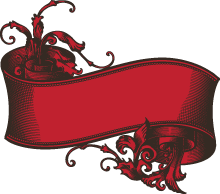
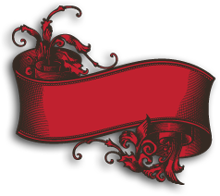
theming tabs and updating some images

diff --git a/css/style.css b/css/style.css
@@ -74,19 +74,21 @@ body {
 #navigation .primary-links a:active {
 	top:1px;
 	left:1px;
-	background: #7f151e; /* Old browsers */
-	/* IE9 SVG, needs conditional override of 'filter' to 'none' */
+	/*
+	background: #7f151e;
+	
[1 lines of base64/hex data omitted]
-	background: -moz-linear-gradient(top,  #7f151e 16%, #c0202f 100%); /* FF3.6+ */
-	background: -webkit-gradient(linear, left top, left bottom, color-stop(16%,#7f151e), color-stop(100%,#c0202f)); /* Chrome,Safari4+ */
-	background: -webkit-linear-gradient(top,  #7f151e 16%,#c0202f 100%); /* Chrome10+,Safari5.1+ */
-	background: -o-linear-gradient(top,  #7f151e 16%,#c0202f 100%); /* Opera 11.10+ */
-	background: -ms-linear-gradient(top,  #7f151e 16%,#c0202f 100%); /* IE10+ */
-	background: linear-gradient(top,  #7f151e 16%,#c0202f 100%); /* W3C */
-	filter: progid:DXImageTransform.Microsoft.gradient( startColorstr='#7f151e', endColorstr='#c0202f',GradientType=0 ); /* IE6-8 */
+	background: -moz-linear-gradient(top,  #7f151e 16%, #c0202f 100%);
+	background: -webkit-gradient(linear, left top, left bottom, color-stop(16%,#7f151e), color-stop(100%,#c0202f)); 
+	background: -webkit-linear-gradient(top,  #7f151e 16%,#c0202f 100%); 
+	background: -o-linear-gradient(top,  #7f151e 16%,#c0202f 100%); 
+	background: -ms-linear-gradient(top,  #7f151e 16%,#c0202f 100%);
+	background: linear-gradient(top,  #7f151e 16%,#c0202f 100%);
+	filter: progid:DXImageTransform.Microsoft.gradient( startColorstr='#7f151e', endColorstr='#c0202f',GradientType=0 );
 	-webkit-box-shadow:  inset 0px 0px 20px 0px rgba(0, 0, 0, 0.5), 0px 0px 20px 0px rgba(0, 0, 0, 0.5);
 	-moz-box-shadow: inset 0px 0px 20px 0px rgba(0, 0, 0, 0.5), 0px 0px 20px 0px rgba(0, 0, 0, 0.5);
 	box-shadow: inset 0px 0px 20px 0px rgba(0, 0, 0, 0.5), 0px 0px 20px 0px rgba(0, 0, 0, 0.5);
+	*/
 }
 
 #block-menu-secondary-links li {
@@ -111,13 +113,13 @@ body {
 	margin:0px;
 	height:74px;
 	width:182px;
-	padding-top:78px !important;
+	padding-top:74px !important;
 	padding-left:38px !important;
 	padding-bottom:50px;
 }
 #block-menu-secondary-links .sponsor {
 	position:relative;
-	top:-146px;
+	top:-148px;
 	background-image:url('../images/ornate_banner_red2.png');
 	display:inline-block;
 	height:194px;
@@ -128,7 +130,7 @@ body {
 	margin:0px;
 	height:111px;
 	width:188px;
-	padding-top:83px !important;
+	padding-top:81px !important;
 	padding-left:32px !important;	
 }
 #block-menu-secondary-links .map,
@@ -300,4 +302,33 @@ filter: progid:DXImageTransform.Microsoft.gradient( startColorstr='#c0202f', end
 
 .node-body {
 	margin:20px 20px 20px 10px;
+}
+
+/* Tabs */
+ul.tabs li {
+
+}
+ul.tabs li a:link {
+	background-image:url('../images/tab.png');
+  background-size:100% 100%;
+  background-position:center bottom;
+  background-repeat: no-repeat;
+  display:inline-block;
+	background-color:transparent;
+	padding:10px 40px 5px 40px;
+	margin-top:5px;
+}
+ul.tabs li a.active {
+	padding:10px 40px 10px 40px;
+	margin-top:0px;
+}
+/* Tabs */
+
+#tabs {
+  margin: 0px 0px 0px 20px;
+  line-height:0;
+}
+
+ul.tabs li {
+  float: left;
 }

diff --git a/css/navigation.css b/css/navigation.css
@@ -27,7 +27,6 @@
 ul.links {
   padding: 0;
   margin: 0;
-  line-height: 2;
   border: none;
 }
 
@@ -60,21 +59,6 @@ ul.links.inline li a {
 ul.links a.active,
 ul.links li.active a {
   border: none;
-}
-
-/* Tabs */
-
-#tabs {
-  margin-bottom: 0px;
-}
-
-ul.tabs li {
-  float: left;
-}
-
-ul.tabs li a:link,
-ul.tabs li a:visited {
-  padding: 2px 5px;
 }
 
 ul.tabs.secondary {

diff --git a/css/color.css b/css/color.css
@@ -72,18 +72,6 @@ fieldset {
   border: 1px solid #eee;
 }
 
-/* Tabs */
-
-ul.tabs li a:link,
-ul.tabs li a:visited {
-  background: #E6E6E6;
-  color: #ee2c3a;
-}
-
-ul.tabs li a.active {
-  color: #333;
-}
-
 /* Menus */
 
 li.active-trail a.active {

diff --git a/css/layout.css b/css/layout.css
@@ -5,7 +5,7 @@
 .limiter {
   width: 940px;
   margin: 0 auto;
-  padding: 10px 0;
+  padding: 5px 0;
 }
 
 .sidebar {

diff --git a/page.tpl.php b/page.tpl.php
@@ -41,7 +41,6 @@
       <?php print $skip_link; ?>
       <?php print $primary_links; ?>
       <?php print $secondary_links; ?>
-      <?php print $breadcrumb; ?>
     </div>
   </div>
 
@@ -55,8 +54,9 @@
           </div>
         <?php endif; ?>
 
+        <?php print $tabs; ?>
         <div id="content" class="clear-block">
-          <?php print $tabs; ?>
+          
           <?php print $messages; ?>
           <?php print $help; ?>
 

diff --git a/node.tpl.php b/node.tpl.php
@@ -33,7 +33,6 @@
             ?>
         </div>
       <?php endif; ?>
-
       <?php //print $picture; ?>
 
       <?php print $content; ?>
